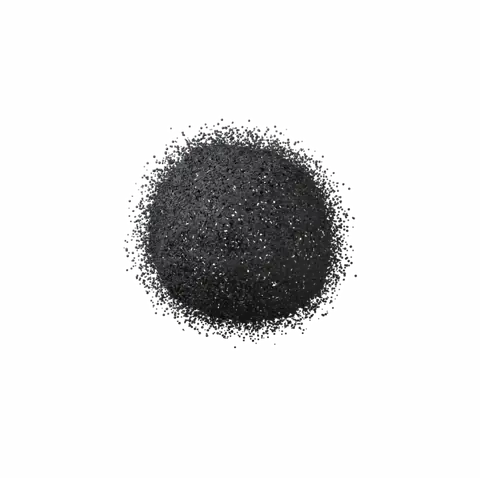
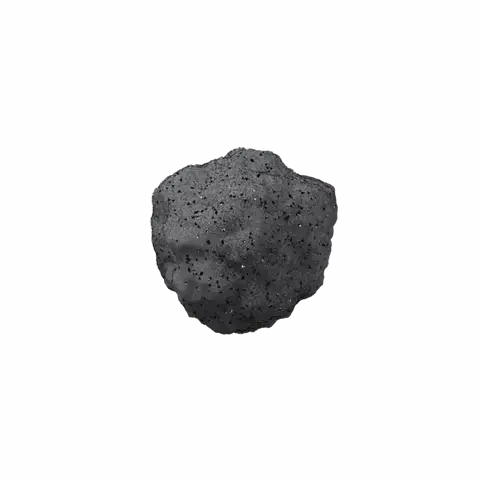
About rock: Blender sphere->stone->membranes->smoke (approved test); globe speed matched to reference
- 30 frames (1.1 MB), dark-grey faceted stone (not black); hover plays forward,
  leave plays back
- Globe idle playback ~7.3 s per loop (measured from the wire-sphere reference)
- render-sculpture.py: glass orb test variations (smoky glass, no thin film)

Changed region(s): [[0.25, 0.25, 0.75, 0.7188]]

diff --git a/src/components/motion/home-motion.ts b/src/components/motion/home-motion.ts
@@ -193,7 +193,7 @@ function windowScene(): () => void {
   const tick = (_t: number, dt: number) => {
     if (!visible) return;
     st.scrollVel *= 0.9;
-    st.pos += (dt / 1000) * 8 + Math.max(-6, Math.min(6, st.scrollVel));
+    st.pos += (dt / 1000) * 12.3 + /* loop ≈ 7.3 s, matching the wire-sphere reference */ Math.max(-6, Math.min(6, st.scrollVel));
     draw();
   };
   gsap.ticker.add(tick);

diff --git a/scripts/render-sculpture.py b/scripts/render-sculpture.py
@@ -166,7 +166,7 @@ def orb():
         t.distance_metric = "DISTANCE"
         d = o.modifiers.new("Cells", "DISPLACE")
         d.texture, d.texture_coords = t, "LOCAL"
-        d.strength, d.mid_level = -0.035, 0.0
+        d.strength, d.mid_level = -0.085, 0.0
         t2 = bpy.data.textures.new("ripple", type="CLOUDS")
         t2.noise_scale, t2.noise_depth = 0.35, 2
         d2 = o.modifiers.new("Ripple", "DISPLACE")
@@ -366,20 +366,32 @@ if a.shape == "orb":
         b.inputs["Transmission Weight"].default_value = 1.0
         b.inputs["IOR"].default_value = 1.12  # thin shell: wires inside stay readable
         if "Thin Film Thickness" in b.inputs:
-            b.inputs["Thin Film Thickness"].default_value = 380.0
+            b.inputs["Thin Film Thickness"].default_value = 0.0  # no rainbow patches (ref A is clear smoky glass)
         ramp.color_ramp.elements[0].color = (0.0, 0.0, 0.0, 1)
-        ramp.color_ramp.elements[1].color = (0.55, 0.57, 0.6, 1)
+        ramp.color_ramp.elements[1].color = (0.75, 0.77, 0.8, 1)
         # Bubble craters as surface relief (silhouette stays a clean circle, like ref A).
         nt2 = m.node_tree
         vor = nt2.nodes.new("ShaderNodeTexVoronoi")
         vor.feature = "SMOOTH_F1"
-        vor.inputs["Scale"].default_value = 3.2
-        vor.inputs["Smoothness"].default_value = 0.6
+        vor.inputs["Scale"].default_value = 3.4
+        vor.inputs["Smoothness"].default_value = 1.0
         bump = nt2.nodes.new("ShaderNodeBump")
-        bump.inputs["Strength"].default_value = 0.85
-        bump.inputs["Distance"].default_value = 0.25
+        bump.inputs["Strength"].default_value = 1.0
+        bump.inputs["Distance"].default_value = 0.4
         nt2.links.new(vor.outputs["Distance"], bump.inputs["Height"])
-        nt2.links.new(bump.outputs["Normal"], b.inputs["Normal"])
+        # fine crinkles on top of the craters (ref A's busy interior)
+        crk = nt2.nodes.new("ShaderNodeTexNoise"); crk.inputs["Scale"].default_value = 22.0; crk.inputs["Detail"].default_value = 6.0
+        bump2 = nt2.nodes.new("ShaderNodeBump"); bump2.inputs["Strength"].default_value = 0.12; bump2.inputs["Distance"].default_value = 0.05
+        nt2.links.new(crk.outputs["Fac"], bump2.inputs["Height"])
+        nt2.links.new(bump.outputs["Normal"], bump2.inputs["Normal"])
+        nt2.links.new(bump2.outputs["Normal"], b.inputs["Normal"])
+        # busy grey surroundings for the glass to refract (instead of a flat gradient)
+        envn = nt.nodes.new("ShaderNodeTexNoise"); envn.inputs["Scale"].default_value = 6.0; envn.inputs["Detail"].default_value = 8.0
+        envr = nt.nodes.new("ShaderNodeValToRGB")
+        envr.color_ramp.elements[0].color = (0.06, 0.065, 0.08, 1); envr.color_ramp.elements[1].color = (0.8, 0.82, 0.88, 1)
+        envr.color_ramp.elements[0].position = 0.42; envr.color_ramp.elements[1].position = 0.68
+        nt.links.new(envn.outputs["Fac"], envr.inputs["Fac"])
+        nt.links.new(envr.outputs["Color"], bg.inputs["Color"])
         softbox("GlintOrange", (-2.6, 1.5, 0.4), (80, 0, -130), (3.0, 0.3), 900, color=(1.0, 0.45, 0.15))
         softbox("GlintBlue", (2.6, 1.8, 1.0), (75, 0, 130), (3.0, 0.3), 900, color=(0.3, 0.5, 1.0))
         scene.cycles.transmission_bounces = 12

diff --git a/scripts/render-rock.py b/scripts/render-rock.py
@@ -57,7 +57,7 @@ def mat_stone():
     m = bpy.data.materials.new("Stone")
     m.use_nodes = True
     b = m.node_tree.nodes["Principled BSDF"]
-    b.inputs["Base Color"].default_value = (0.008, 0.008, 0.009, 1)
+    b.inputs["Base Color"].default_value = (0.045, 0.045, 0.048, 1)  # dark grey, facets stay visible
     b.inputs["Roughness"].default_value = 0.9
     nt = m.node_tree
     v = nt.nodes.new("ShaderNodeTexVoronoi"); v.inputs["Scale"].default_value = 300.0
@@ -229,23 +229,6 @@ sc.camera = cam
 if a.test:
     for i, t in enumerate(float(x) for x in a.test.split(",")):
         T.outputs[0].default_value = t
-        dg = bpy.context.evaluated_depsgraph_get(); dg.update()
-        ev = obj.evaluated_get(dg)
-        for g in dg.object_instances:
-            pass
-        pc = [o for o in dg.objects if o.name.startswith(obj.name)]
-        try:
-            import mathutils
-            geo = ev.evaluated_geometry()
-            pts = geo.pointcloud
-            if pts:
-                co = [v.vector for v in pts.attributes["position"].data]
-                xs = [c.x for c in co]; zs = [c.z for c in co]
-                print("DEBUG T", t, "points", len(co), "x", round(min(xs),2), round(max(xs),2), "z", round(min(zs),2), round(max(zs),2))
-            else:
-                print("DEBUG T", t, "no pointcloud")
-        except Exception as e:
-            print("DEBUG err", e)
         sc.render.filepath = f"{a.out}{i:02d}"
         bpy.ops.render.render(write_still=True)
 else:
